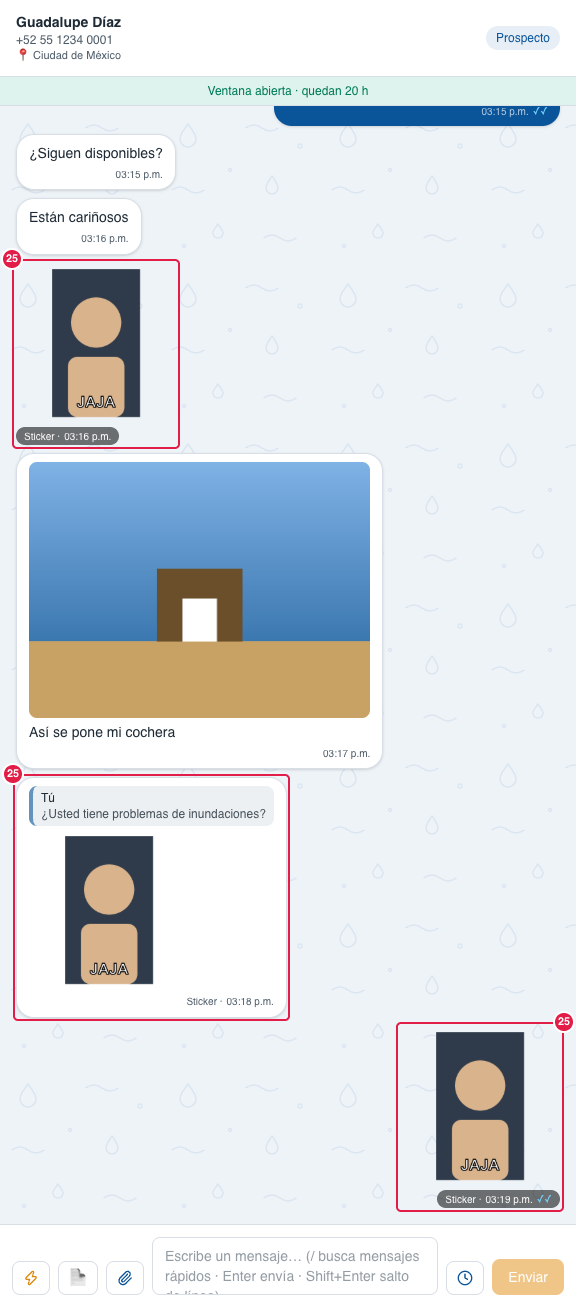
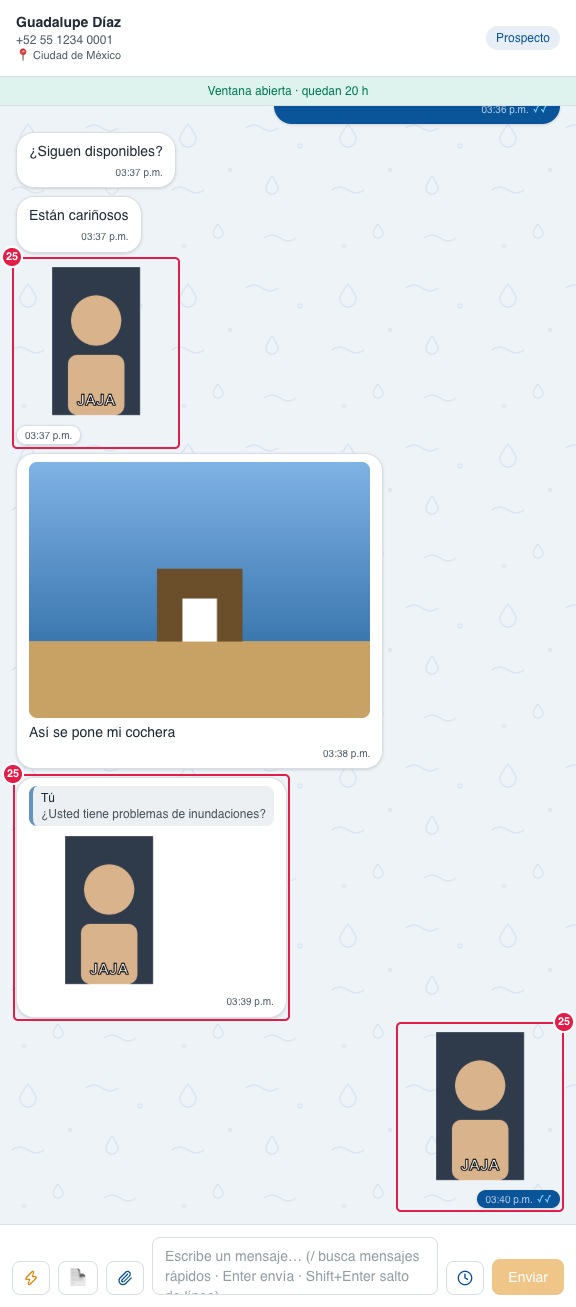
feat(chat): sticker con solo la hora abajo, en píldora con el color de su lado
Decisión del dueño (30-sep) tras verlo en producción: como en WhatsApp, abajo del
sticker va solo la hora (sin «Sticker ·», también en el sticker que responde a un
mensaje), y la píldora deja el gris de WhatsApp por los colores del CRM: blanca con
borde y hora gris si es del cliente, azul marino con hora blanca y ✓✓ si es nuestra.
Se quita bubbleKindLabel (y sus pruebas); isBareSticker y el tamaño fijo 160 px siguen.
La lista de la Bandeja conserva «📎 Sticker».

Mapa: Glosario «Sticker», Bandeja › Chat › 25 y captura 03-chat-sticker rehecha.
Sin migración.

diff --git a/app/(app)/dashboard/_components/chat-thread.tsx b/app/(app)/dashboard/_components/chat-thread.tsx
@@ -33,7 +33,7 @@ import {
 import { formatPhone } from "@/lib/phone-format";
 import { PhoneLocation } from "@/components/ui/phone-location";
 import { LinkedText } from "@/components/ui/linked-text";
-import { bubbleKindLabel, isBareSticker, STICKER_LABEL, STICKER_SIZE_PX } from "@/lib/inbox/sticker";
+import { isBareSticker, STICKER_LABEL, STICKER_SIZE_PX } from "@/lib/inbox/sticker";
 
 const PAGE_LIMIT = 30;
 // Distancia al tope (px) a la que se cargan solos los mensajes anteriores, y al
@@ -189,9 +189,8 @@ function Bubble({
   // Primer mensaje que WhatsApp no pasó al CRM (Meta 131060, caso SDA): tarjeta de
   // aviso en lugar de "[Unsupported message]"; mientras se verifica, "Recibiendo mensaje…".
   const notice = view?.noDisponible ?? null;
-  // Sticker (30-sep-2026): «Sticker» junto a la hora; si viene solo, sin burbuja y con la
-  // hora en una píldora oscura, como en WhatsApp (lib/inbox/sticker.ts).
-  const kindLabel = view ? bubbleKindLabel(view.attachments) : null;
+  // Sticker suelto (30-sep-2026): sin burbuja y solo la hora abajo, como en WhatsApp, en una
+  // píldora con el color de su lado (blanca del cliente, azul nuestra) (lib/inbox/sticker.ts).
   const bare = view ? isBareSticker(view) : false;
   const bubbleSkin = bare
     ? ""
@@ -277,7 +276,7 @@ function Bubble({
         <div
           className={`mt-1 flex items-center justify-end gap-1 text-[10px] ${
             bare
-              ? `w-fit rounded-full bg-black/55 px-2 py-0.5 text-white ${out ? "ml-auto" : ""}`
+              ? `w-fit rounded-full px-2 py-0.5 shadow-sm ${out ? "ml-auto bg-brand-navy text-brand-white/70" : "border bg-card text-muted-foreground"}`
               : out
                 ? "text-brand-white/70"
                 : "text-muted-foreground"
@@ -285,7 +284,6 @@ function Bubble({
         >
           {view?.importedFromPhone && <span title="Copiado del historial del celular al conectar el número">Importado del celular ·</span>}
           {view?.editedAt && <span>editado</span>}
-          {kindLabel && <span>{kindLabel} ·</span>}
           <span>{bubbleTime(row.sentAt)}</span>
           {mark && mark.glyph && (
             <span className={mark.className} title={mark.label} aria-label={mark.label}>

diff --git a/lib/inbox/sticker.ts b/lib/inbox/sticker.ts
@@ -1,23 +1,20 @@
 // Sticker de WhatsApp en el chat (30-sep-2026, decisión del dueño): se pinta como en
-// WhatsApp —tamaño fijo y sin burbuja— y con «Sticker» junto a la hora, para que nunca
-// se confunda con una foto (caso Alberto: un sticker hecho de una foto parecía imagen).
-// Todos miden 512×512 con fondo transparente (verificado en prod), así que el cuadro
-// fijo con object-contain nunca los recorta. Regla pura: la UI solo la pinta.
+// WhatsApp —tamaño fijo, sin burbuja y solo la hora abajo— para que nunca se confunda
+// con una foto (caso Alberto: un sticker hecho de una foto parecía imagen). La píldora
+// de la hora lleva el color de su lado (blanca del cliente, azul nuestra), no el gris de
+// WhatsApp. Todos miden 512×512 con fondo transparente (verificado en prod), así que el
+// cuadro fijo con object-contain nunca los recorta. Regla pura: la UI solo la pinta.
 import type { MessageView } from "./types";
 
+/** Texto alternativo de la imagen (la burbuja ya no lleva etiqueta: solo la hora). */
 export const STICKER_LABEL = "Sticker";
 /** Lado del cuadro del sticker en px (WhatsApp los muestra de un tamaño fijo). */
 export const STICKER_SIZE_PX = 160;
 
-/** Etiqueta del pie de la burbuja ("Sticker · 12:52 p.m."), o null si no trae sticker. */
-export function bubbleKindLabel(attachments: readonly Pick<MessageView["attachments"][number], "kind">[]): string | null {
-  return attachments.some((a) => a.kind === "sticker") ? STICKER_LABEL : null;
-}
-
 /**
  * Sticker suelto: solo stickers, sin texto ni nada más que pintar dentro de la burbuja
  * (cita, anuncio, aviso, ubicación, tarjetas, "eliminado"). Ese va sin burbuja, como en
- * WhatsApp; cualquier otro caso conserva la burbuja y solo lleva la etiqueta.
+ * WhatsApp; cualquier otro caso conserva su burbuja normal.
  */
 export function isBareSticker(
   message: Pick<

diff --git a/lib/inbox/sticker.test.ts b/lib/inbox/sticker.test.ts
@@ -1,6 +1,6 @@
 import { describe, expect, it } from "vitest";
 import type { MessageView } from "./types";
-import { bubbleKindLabel, isBareSticker, STICKER_LABEL } from "./sticker";
+import { isBareSticker } from "./sticker";
 
 type Bare = Parameters<typeof isBareSticker>[0];
 
@@ -11,18 +11,6 @@ function att(kind: MessageView["kind"]): MessageView["attachments"][number] {
 function msg(over: Partial<Bare> = {}): Bare {
   return { body: null, attachments: [att("sticker")], quoted: null, adReferral: null, deletedAt: null, noDisponible: null, location: null, contactCards: [], ...over };
 }
-
-describe("bubbleKindLabel (etiqueta «Sticker» en la burbuja)", () => {
-  it("un sticker lleva «Sticker» junto a la hora", () => {
-    expect(STICKER_LABEL).toBe("Sticker");
-    expect(bubbleKindLabel([att("sticker")])).toBe("Sticker");
-  });
-  it("una foto, un video o un texto NO llevan etiqueta", () => {
-    expect(bubbleKindLabel([att("image")])).toBeNull();
-    expect(bubbleKindLabel([att("video")])).toBeNull();
-    expect(bubbleKindLabel([])).toBeNull();
-  });
-});
 
 describe("isBareSticker (sticker sin burbuja, tamaño fijo como WhatsApp)", () => {
   it("sticker solo: va sin burbuja", () => {

diff --git a/docs/mapa-crm.md b/docs/mapa-crm.md
@@ -80,7 +80,7 @@ Nadie es "dueño" de un contacto: **todos ven todos los contactos, siempre**.
 | **Modelo 1 / Modelo 2** | Los dos "cerebros" del agente. Cada etapa usa uno (hoy: Modelo 1 en Inbox, Prospecto e Interesado; Modelo 2 en Cerca de compra y Compra). |
 | **Número de prueba / PRUEBA** | Número de WhatsApp para probar. Sus chats llevan la etiqueta **PRUEBA** y **no cuentan en el Dashboard**. Desde el 28-sep-2026 está **archivado** (igual que el Sandbox): ya no aparece en Agente IA › Canales. Ese mismo día se **borraron sus chats de prueba** (eran celulares del negocio): los contactos se quedaron, sin la marca Prueba, y hoy ningún chat lleva la etiqueta PRUEBA. |
 | **Importado del celular** | Mensaje viejo copiado del teléfono al conectar un número. El agente no lo contesta y no cuenta como nuevo. |
-| **Sticker** | Calcomanía de WhatsApp (del cliente, o de un vendedor desde el celular). En el chat se ve **como en WhatsApp**: sin burbuja, de **tamaño fijo** (más chico que una foto) y con **«Sticker · hora»** abajo, para no confundirlo con una foto (aunque lo hayan hecho de una foto). Si responde a un mensaje va dentro de la burbuja con la cita, con la misma etiqueta. En la lista de la Bandeja sale «📎 Sticker». El Agente IA no ve el dibujo: solo sabe que llegó un sticker. Desde el 30-sep-2026. |
+| **Sticker** | Calcomanía de WhatsApp (del cliente, o de un vendedor desde el celular). En el chat se ve **como en WhatsApp**: sin burbuja, de **tamaño fijo** (más chico que una foto) y **solo la hora** abajo, en una píldora con el color de su lado (**blanca** si es del cliente, **azul** si es nuestra), para no confundirlo con una foto (aunque lo hayan hecho de una foto). Si responde a un mensaje va dentro de su burbuja normal, con la cita. En la lista de la Bandeja sale «📎 Sticker». El Agente IA no ve el dibujo: solo sabe que llegó un sticker. Desde el 30-sep-2026. |
 | **Mensaje no disponible** | A veces WhatsApp **no pasa al CRM el primer mensaje** de un cliente nuevo (Meta, código 131060; pasa sobre todo con iPhone y al llegar por anuncio: ~1 de cada 70 clientes nuevos). El CRM espera **hasta 1 minuto** con «Recibiendo mensaje…» (el más tardío que se ha medido llegó a los 5 s) y hace una **doble verificación**: si el mensaje llegó por otro lado lo muestra normal (el aviso desaparece), si Zernio lo tiene lo recupera, y si de verdad no llegó deja la tarjeta **«El cliente escribió, pero WhatsApp no pasó el mensaje al CRM. Míralo en el celular.»** y el Agente IA (en su horario) le escribe: «¡Hola! Gracias por escribirnos 😊 Tuvimos una falla técnica y su mensaje no nos llegó. ¿Nos ayudas escribiéndolo de nuevo para seguir con su atención?». Si el mensaje llega más tarde, reemplaza a la tarjeta solo y el Agente IA contesta **lo que dice**. Lo que el cliente escribe después sí llega y se contesta normal: el texto fijo solo sale si no hay nada que leer. Desde el 29-sep-2026. |
 | **Programado** | Mensaje que sale solo a la hora elegida (hora de Mazatlán). |
 | **Transcripción** | Texto de una nota de voz del cliente, escrito por el CRM; el agente lo lee para contestar. |
@@ -263,7 +263,7 @@ dentro de él.
 ![Mensaje que no se envió](mapa-crm/03-chat-fallido.png)
 ![Chat del número de prueba (captura anterior al 28-sep-2026; ese chat ya se borró)](mapa-crm/03-chat-prueba.png)
 ![Links en el chat: azules y subrayados](mapa-crm/03-chat-links.png)
-![Stickers en el chat: sin burbuja, tamaño fijo y «Sticker · hora»](mapa-crm/03-chat-sticker.png)
+![Stickers en el chat: sin burbuja, tamaño fijo y solo la hora](mapa-crm/03-chat-sticker.png)
 
 | # | Nombre oficial | Qué hace | Quién lo ve |
 |---|---|---|---|
@@ -291,7 +291,7 @@ dentro de él.
 | 22 | **⚠ El cliente escribió, pero WhatsApp no pasó el mensaje al CRM. Míralo en el celular.** | Burbuja del cliente con borde naranja punteado (en lugar del antiguo «[Unsupported message]»): se confirmó que el primer mensaje no llegó. El texto solo está en la app del celular. Si trae la tarjeta 📣 (1), el cliente llegó por ese anuncio. Si el mensaje llega después, la tarjeta se reemplaza sola. Captura pendiente. | Todos |
 | 23 | **Link** | Cualquier link del mensaje (https://…, www.…, diluvium.com.mx, amzn.to/…) sale **subrayado**: azul en la burbuja del cliente y azul claro en la nuestra, para que se lea sobre el fondo azul. Clic lo abre en otra pestaña. El punto o la coma del final no entran en el link, y un correo (ventas@…) no es link. Igual en el pop-up del Embudo. Desde el 29-sep-2026. | Todos |
 | 24 | **Pantalla completa** (video) | Ícono blanco de cuatro esquinas arriba a la derecha de cada video del chat (del cliente o enviado). Se ve con el video en pausa o al terminar y se oculta mientras corre. Un clic, o doble clic sobre la imagen del video (no sobre la barra), lo pone en pantalla completa y empieza a reproducirse. Para salir: Esc, el botón de salir de Chrome (abajo a la derecha) o doble clic. Para no repetirla, «Pantalla completa» ya no sale en el menú ⋮ ni en la barra de Chrome, y tampoco se ofrece **Silenciar**: el menú ⋮ queda con Descargar, Velocidad de reproducción y Pantalla en pantalla (desde el 30-sep-2026). Por eso el video mide al menos 208 px de ancho: uno vertical muestra franjas negras a los lados. En iPhone abre el reproductor del teléfono. Igual en el pop-up del Embudo. Desde el 30-sep-2026. Captura pendiente. | Todos |
-| 25 | **Sticker** | Sticker de WhatsApp: **sin burbuja**, siempre del **mismo tamaño** (más chico que una foto) y con **«Sticker · hora»** en una píldora oscura abajo (a la izquierda si es del cliente, a la derecha si lo mandó un vendedor desde el celular, con ✓✓). Así no se confunde con una foto, que siempre va dentro de su burbuja. Si el sticker responde a un mensaje, va dentro de la burbuja con la cita y la misma etiqueta. Clic lo abre en grande. Igual en el pop-up del Embudo y en el celular. Desde el 30-sep-2026. | Todos |
+| 25 | **Sticker** | Sticker de WhatsApp como en WhatsApp: **sin burbuja**, siempre del **mismo tamaño** (más chico que una foto) y **solo la hora** abajo, en una píldora con los colores del CRM: **blanca** con hora gris si es del cliente (izquierda) y **azul** con hora blanca y ✓✓ si lo mandó un vendedor desde el celular (derecha). Así no se confunde con una foto, que siempre va dentro de su burbuja. Si el sticker responde a un mensaje, va dentro de su burbuja normal con la cita. Clic lo abre en grande. Igual en el pop-up del Embudo y en el celular. Desde el 30-sep-2026. | Todos |
 
 **Lo cambias tú desde la pantalla:** Reintentar o Apagar en la tarjeta del agente; Reintentar un mensaje que no salió.
 
